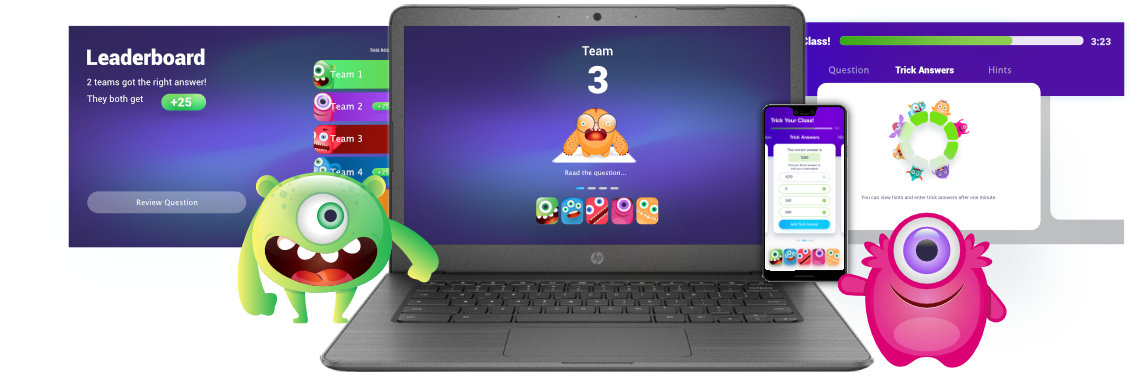
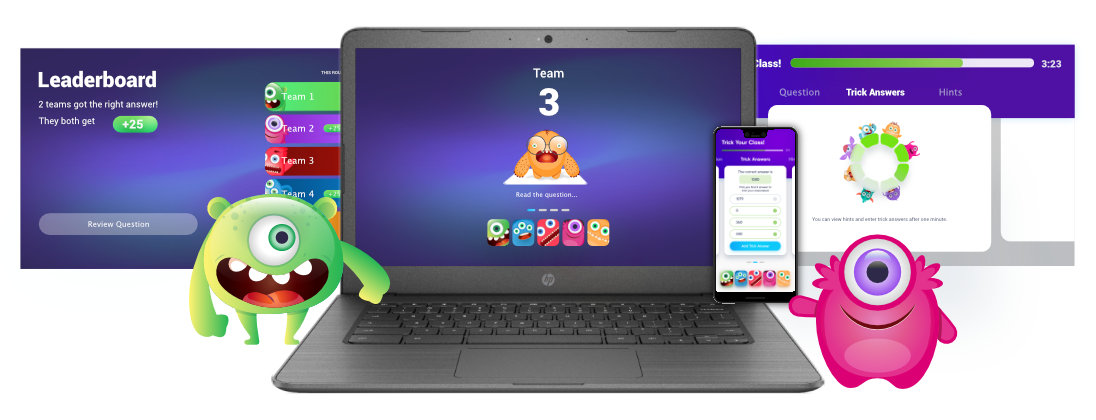
resized images

diff --git a/src/components/organisms/WhyRightOn.jsx b/src/components/organisms/WhyRightOn.jsx
@@ -5,7 +5,7 @@ import {
 } from "@material-ui/core";
 import SectionHeading from '../atoms/SectionHeading'
 import SingleWhy from '../atoms/SingleWhy'
-import chromebook from 'images/chromebook_mockup.png'
+import chromebook from 'images/chromebook_mockup.jpg'
 
 function WhyRightOn(props) {
   const { whyRightOn } = props
@@ -18,8 +18,8 @@ function WhyRightOn(props) {
         <Grid
           item
           container
-          xs={10}
-          sm={10}
+          xs={12}
+          sm={8}
           md={10}
           spacing={4}
           justify="space-around"
@@ -32,15 +32,15 @@ function WhyRightOn(props) {
             );
           })}
         </Grid>
-        <Grid item container justify="space-around" alignItems="center" sm={12}>
-          <Grid item align="center" sm={12} md={8}>
+        {/* <Grid item container justify="space-around" alignItems="center" xs={12} sm={12}> */}
+          <Grid align="center" xs={12} sm={12} md={8}>
             <img
               src={chromebook}
               width="100%"
               alt="right-on-education-chromebook-app"
             />
           </Grid>
-        </Grid>
+        {/* </Grid> */}
       </Grid>
     </Box>
   );
